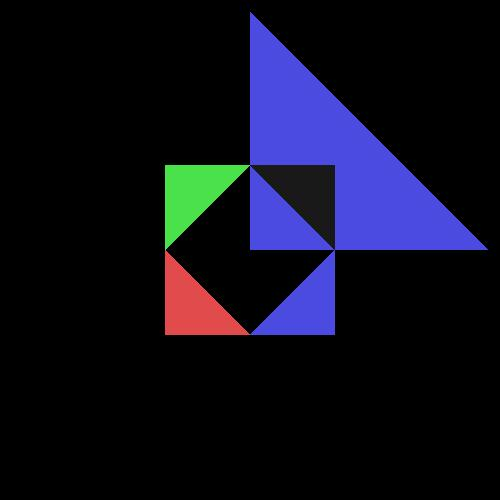
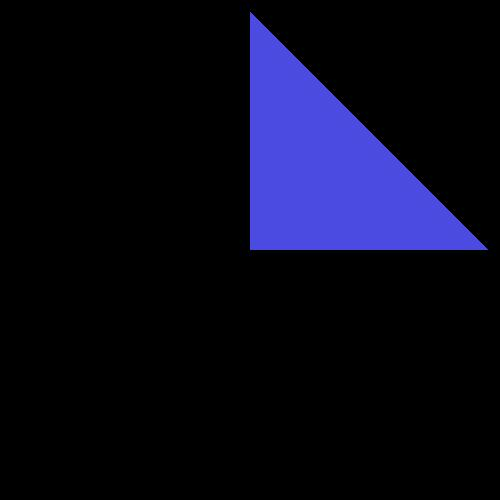
worked on creating square

Changed region(s): [[0.33, 0.33, 0.69, 0.69]]

diff --git a/src/testing/tests/quadrantTest.java b/src/testing/tests/quadrantTest.java
@@ -2,6 +2,7 @@ package testing.tests;
 
 
 import main.geometries.quadrilateral;
+import main.geometries.quadrilateral2;
 import main.primitives.Material;
 import main.primitives.Ray;
 
@@ -23,6 +24,85 @@ public class quadrantTest {
 
     private final String IMAGES_TEST_DIR = "/src/testing/images/";
 
+
+
+    @Test
+    public void squaresRealTest(){
+        Point3D p10= new Point3D(  3500,  3500, -2000);
+        Point3D p20= new Point3D( -3500, -3500, -1000);
+        Point3D p30= new Point3D(  3500, -3500, -2000);
+        Point3D p40 =new Point3D( -3500,  3500, -1000);
+        quadrilateral2 square = new quadrilateral2(p10,p30,p20,p40);
+
+
+        Point3D p11= new Point3D(  350,  350, -200);
+        Point3D p21= new Point3D( -350, -350, -100);
+        Point3D p31= new Point3D(  350, -350, -200);
+        Point3D p41 =new Point3D( -350,  350, -100);
+        quadrilateral2 square2 = new quadrilateral2(p11,p31,p21,p41);
+
+
+
+
+
+
+        square.setShininess(20);
+        square.setEmmission(new Color (50, 50, 200));
+        Scene scene = new Scene();
+        scene.setScreenDistance(50);
+        scene.addGeometry(square);
+        scene.addGeometry(square2);
+
+        scene.addLight(new SpotLight(new Color(255, 100, 100), new Point3D(200, 200, -100),
+                new Vector(-2, -2, -3), 0, 0.000001, 0.0000005));
+
+
+        ImageWriter imageWriter = new ImageWriter(IMAGES_TEST_DIR + "quadrilateral's test", 500, 500, 500, 500);
+
+        Render render = new Render(imageWriter, scene);
+
+        render.renderImage();
+        render.writeToImage();
+    }
+
+
+    @Test
+    public void squareTest2(){
+        int z1 = -100,z2 = -100;
+        Point3D p1 = new Point3D(0.0,0.0,z1);
+        Point3D p2 = new Point3D(200,0,z1);
+        Point3D p3 = new Point3D(200,-200,z2);
+        Point3D p4 = new Point3D(0,-200,z2);
+        quadrilateral square = new quadrilateral(p1,p2,p3,p4);
+
+        Point3D p10= new Point3D(  3500,  3500, -2000);
+        Point3D p20= new Point3D( -3500, -3500, -1000);
+        Point3D p30= new Point3D(  3500, -3500, -2000);
+        Point3D p40 =new Point3D( -3500,  3500, -1000);
+        quadrilateral square2 = new quadrilateral(p10,p30,p20,p40);
+        quadrilateral2 square3 = new quadrilateral2(p10,p30,p20,p40);
+
+        square.setShininess(20);
+        square.setEmmission(new Color (50, 50, 200));
+
+        square2.setShininess(20);
+        square2.setEmmission(new Color (50, 50, 200));
+
+        Scene scene = new Scene();
+        scene.setScreenDistance(50);
+        scene.addGeometry(square3);
+
+        scene.addLight(new SpotLight(new Color(255, 100, 100), new Point3D(200, 200, -100),
+                new Vector(-2, -2, -3), 0, 0.000001, 0.0000005));
+
+
+        ImageWriter imageWriter = new ImageWriter(IMAGES_TEST_DIR + "quadrilateral test", 500, 500, 500, 500);
+
+        Render render = new Render(imageWriter, scene);
+
+        render.renderImage();
+        render.writeToImage();
+    }
     @Test
     public void squareTest(){
         int z1 = -200,z2 = -200;
@@ -30,8 +110,8 @@ public class quadrantTest {
         Point3D p2 = new Point3D(1000,0,z1);
         Point3D p3 = new Point3D(1000,1000,z2);
         Point3D p4 = new Point3D(0,1000,z2);
-        Triangle t1,t2;
-        t1 = new Triangle(p1,p2,p3);
+        //Triangle t1,t2;
+        //t1 = new Triangle(p1,p2,p3);
      quadrilateral square = new quadrilateral(p1,p2,p3,p4);
      square.setShininess(20);
      //ok have problem with this line.. great i found the problem..
@@ -42,7 +122,7 @@ public class quadrantTest {
         scene.setScreenDistance(50);
 
 
-        Triangle triangle = new Triangle(new Point3D( 100, 0, -49),
+        /*Triangle triangle = new Triangle(new Point3D( 100, 0, -49),
                 new Point3D(  0, 100, -49),
                 new Point3D( 100, 100, -49));
 
@@ -61,12 +141,12 @@ public class quadrantTest {
                 new Point3D(-100, -100, -49));
         triangle4.setEmmission(new Color (200, 50, 50));
 
-        scene.addGeometry(square);
+
         scene.addGeometry(triangle);
         scene.addGeometry(triangle2);
         scene.addGeometry(triangle3);
-        scene.addGeometry(triangle4);
-
+        scene.addGeometry(triangle4);*/
+        scene.addGeometry(square);
 
         ImageWriter imageWriter = new ImageWriter(IMAGES_TEST_DIR + "square test", 500, 500, 500, 500);
 
